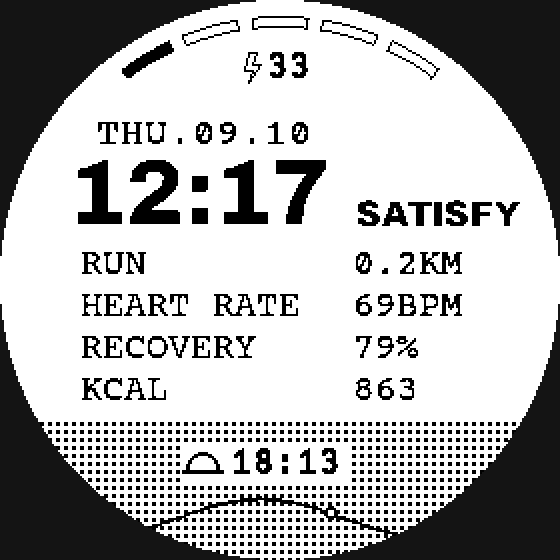
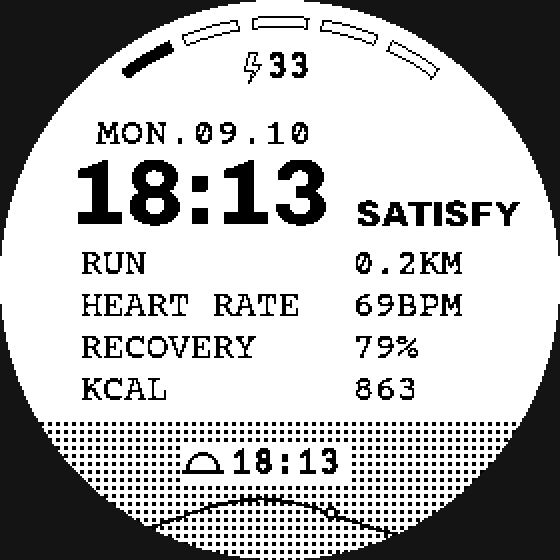
Preview samples match the mockup (MON.09.10, 18:13)

Changed region(s): [[0.4857, 0.2732, 0.6071, 0.425], [0.1518, 0.2125, 0.3036, 0.2732], [0.2125, 0.3036, 0.3339, 0.3946]]

diff --git a/gen_svg.py b/gen_svg.py
@@ -90,8 +90,8 @@ BOLT = [(128, 26), (124, 26), (122, 35), (126, 35), (124, 41), (130, 32), (126, 
 L.append('  <polygon id="bolt" points="' + " ".join(f"{x},{y}" for x, y in BOLT) + '" fill="none" stroke="#000" stroke-width="1"/>')
 
 # date / time / label / rows
-L.append(text("date", DATE_X, DATE_Y + DATE_BASE, "THU.09.10", 20, 1.0))
-L.append(text("time", TIME_X, TIME_Y + TIME_BASE, "12:17", 46, TIME_SX, family="Archivo", weight=800))
+L.append(text("date", DATE_X, DATE_Y + DATE_BASE, "MON.09.10", 20, 1.0))
+L.append(text("time", TIME_X, TIME_Y + TIME_BASE, "18:13", 46, TIME_SX, family="Archivo", weight=800))
 L.append(text("label", SAT_X, SAT_Y + LABEL_BASE, "SATISFY", 18, 1.0, family="Archivo", weight=800))
 for i, (k, v) in enumerate([("RUN", "0.2KM"), ("HEART RATE", "69BPM"), ("RECOVERY", "79%"), ("KCAL", "863")]):
     L.append(text(f"row {i+1} label", LABEL_X, ROW_Y[i] + TEXT_BASE, k, 19, TEXT_SX))

diff --git a/preview.py b/preview.py
@@ -111,8 +111,8 @@ BOLT = [(128, 26), (124, 26), (122, 35), (126, 35), (124, 41), (130, 32), (126, 
 d.line(BOLT + [BOLT[0]], fill=(0, 0, 0, 255), width=1)
 
 # date, time, label
-draw_text(img, fdate, DATE_X, DATE_Y, "THU.09.10")
-draw_text(img, ftime, TIME_X, TIME_Y, "12:17")
+draw_text(img, fdate, DATE_X, DATE_Y, "MON.09.10")
+draw_text(img, ftime, TIME_X, TIME_Y, "18:13")
 draw_text(img, flabel, SAT_X, SAT_Y, "SATISFY")
 
 # rows
